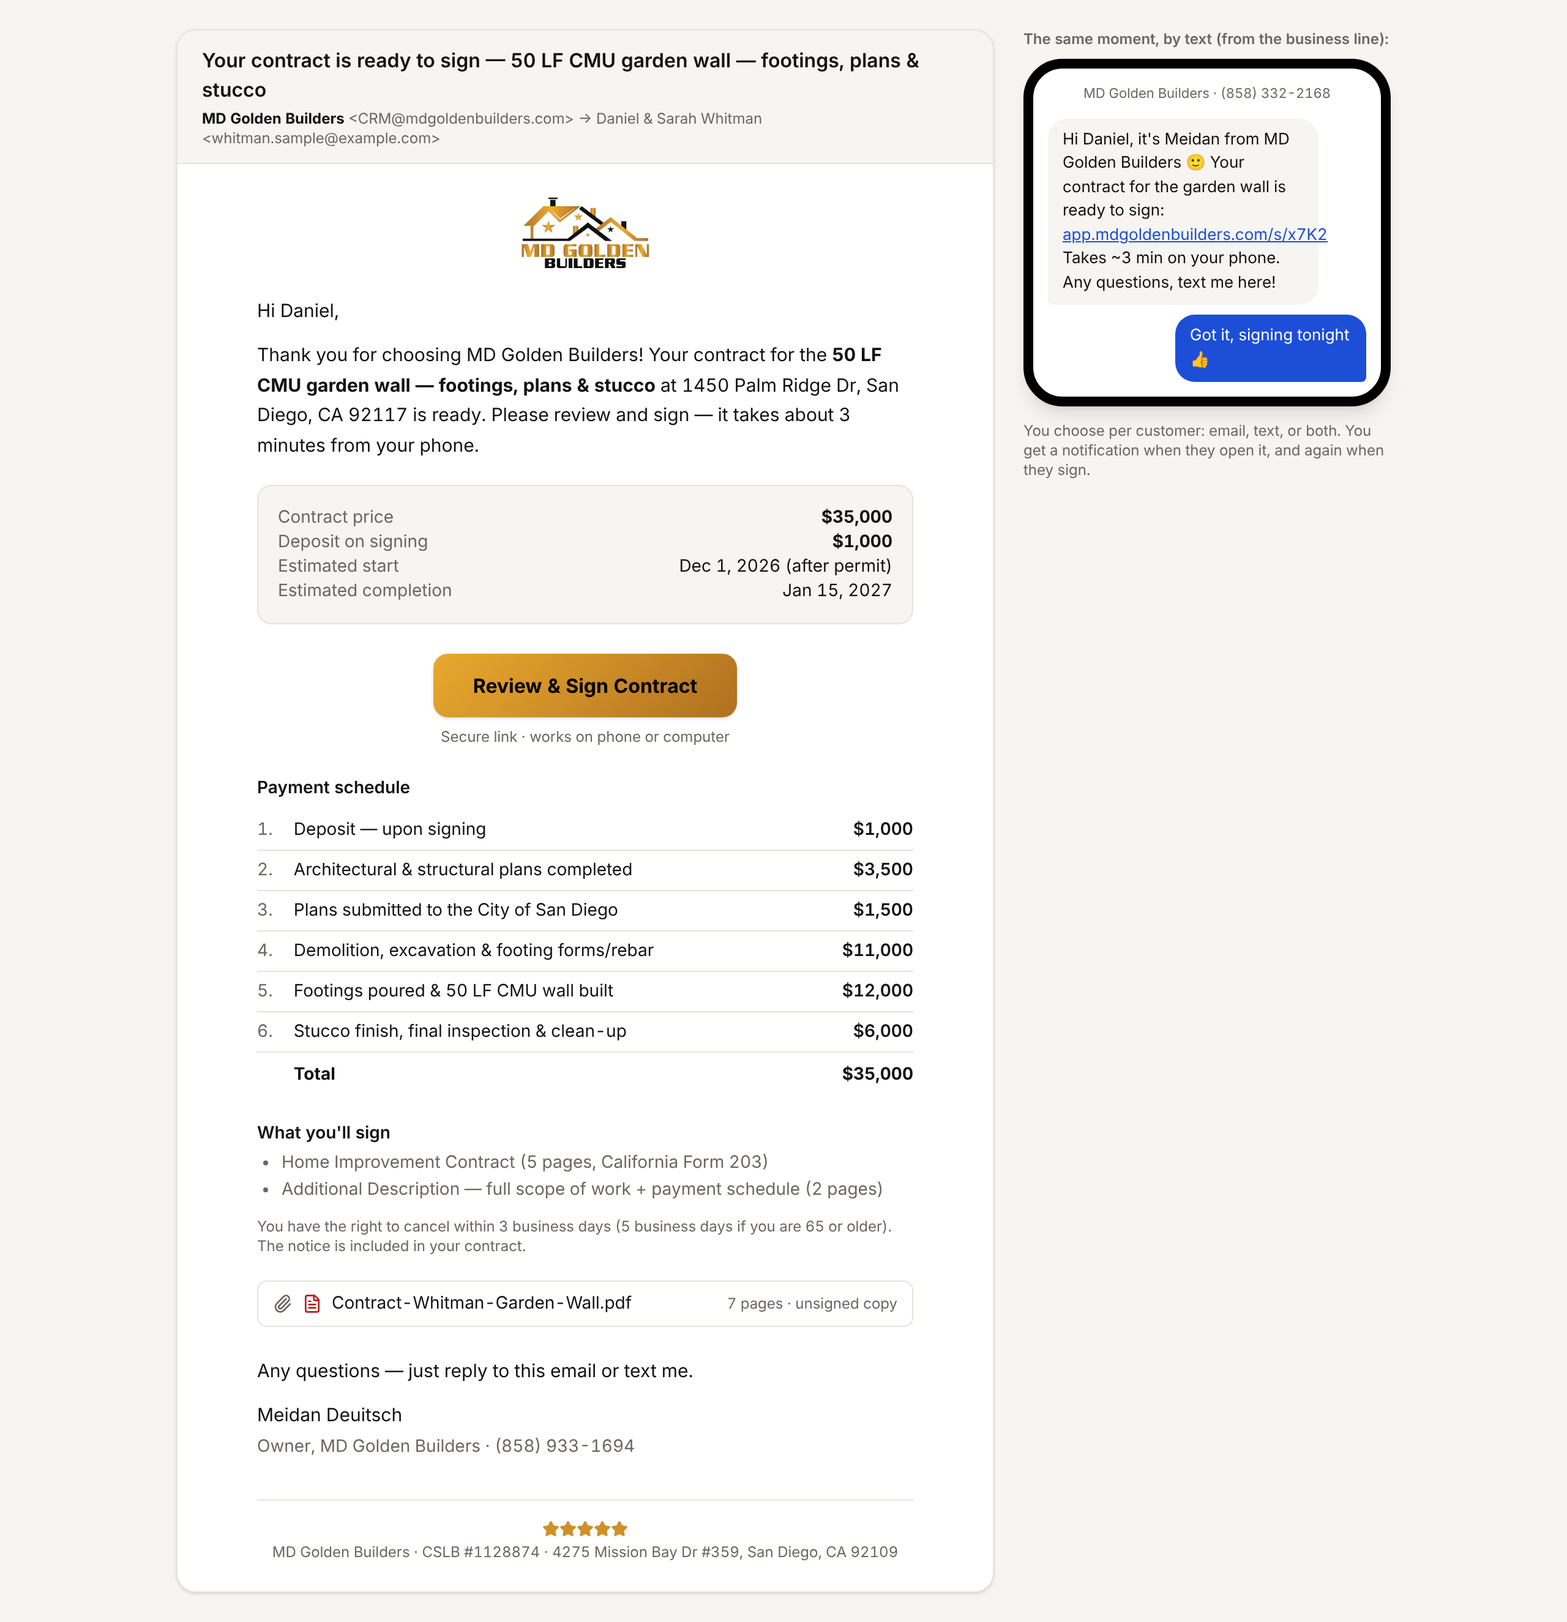
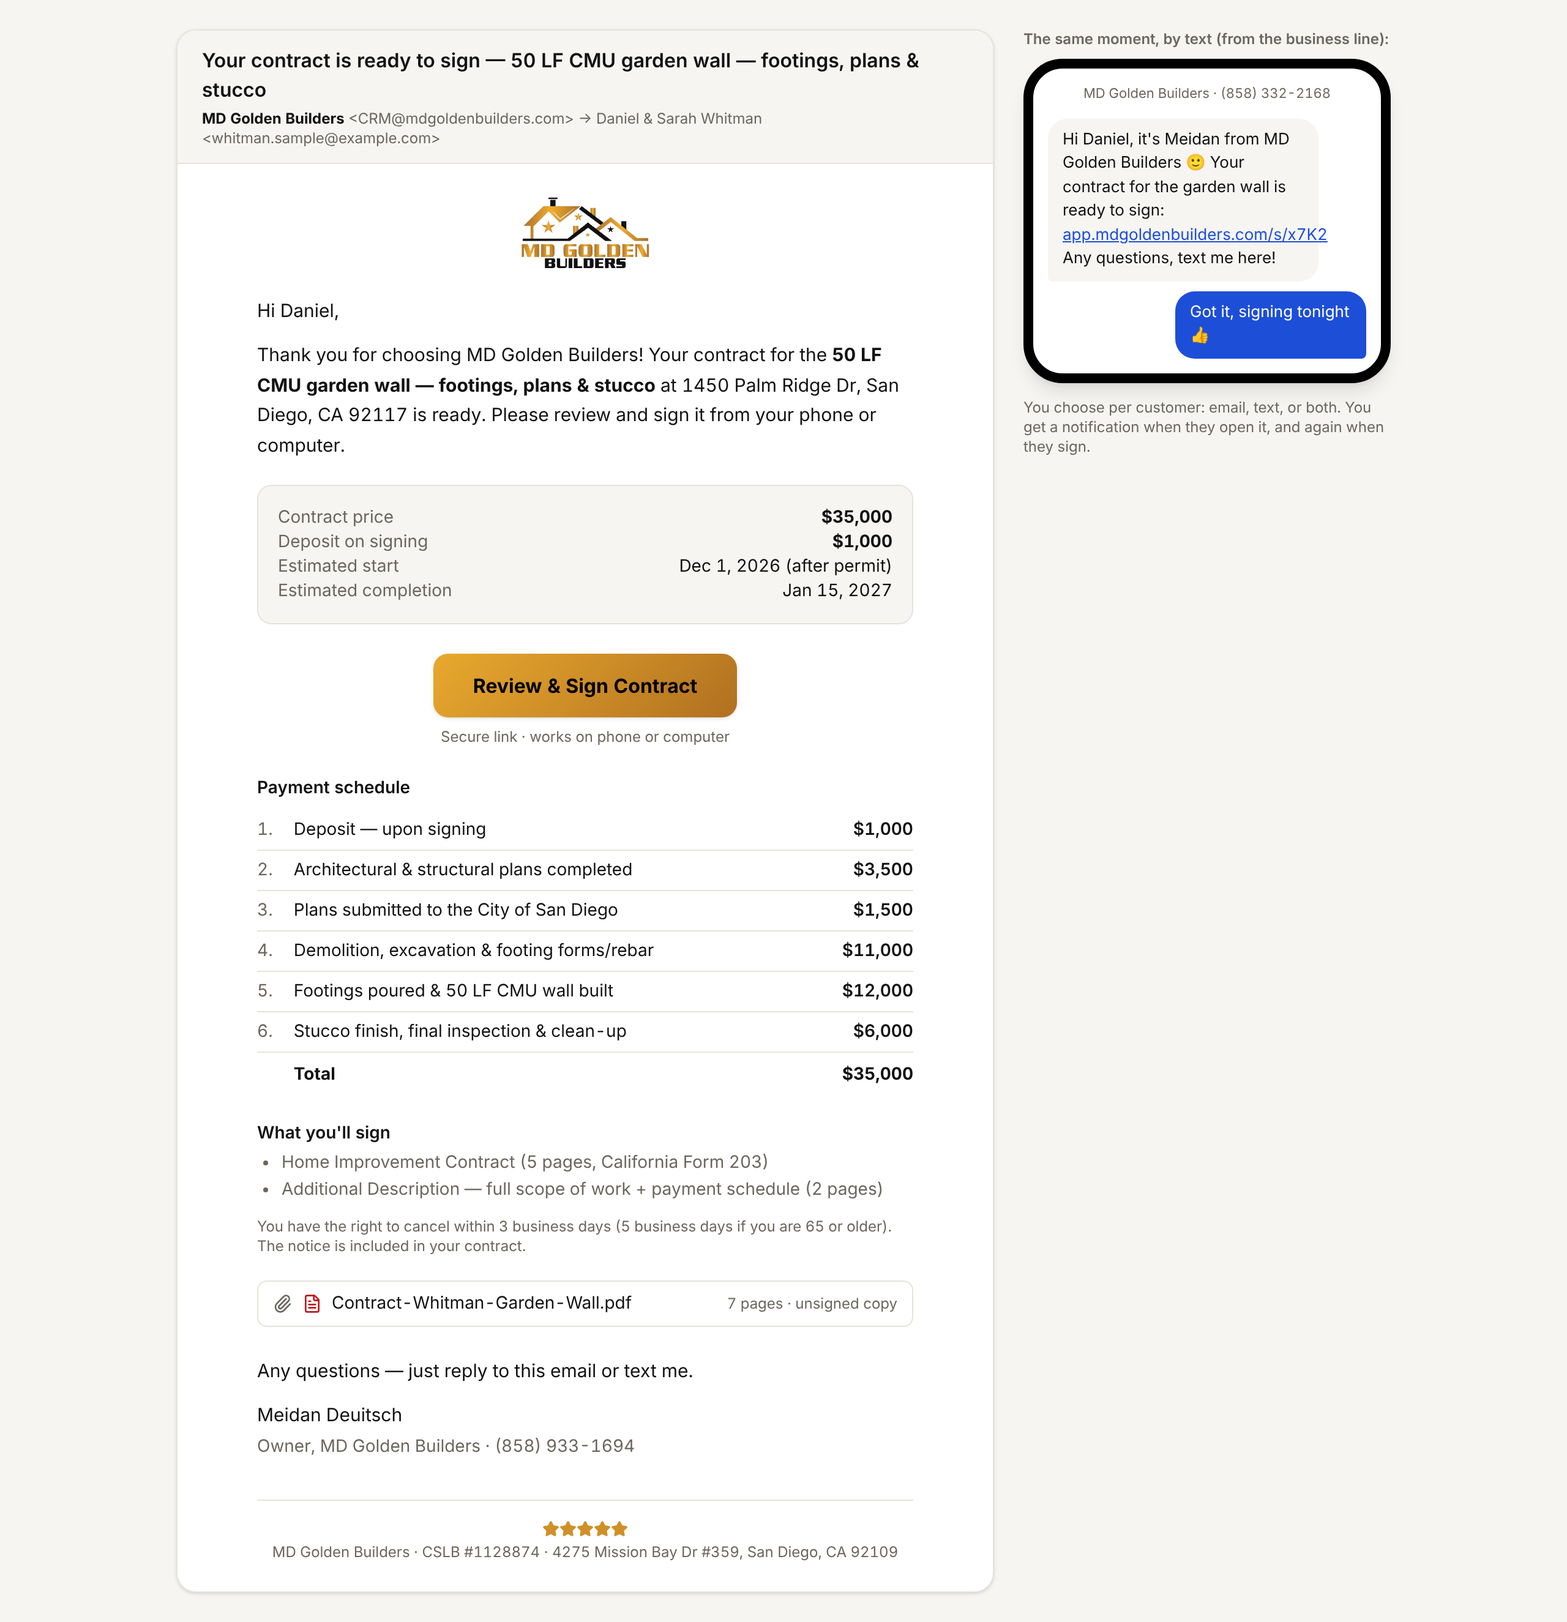
Add document builder (estimate/contract/CO/additional description/sub agreement), estimate-approved deposit flow
Claude-Session: https://claude.ai/code/session_01FWP9vEZ3MdPGUBuhGCAjT9

Changed region(s): [[0.6562, 0.1547, 0.9062, 0.3094], [0.4688, 0.2475, 0.5312, 0.2785], [0.1875, 0.2475, 0.2188, 0.2785]]

diff --git a/src/app/(app)/documents/new/page.tsx b/src/app/(app)/documents/new/page.tsx
@@ -1,0 +1,166 @@
+import clsx from "clsx";
+import { AlertTriangle, CheckCircle2, FilePlus2, FileSignature, FileText, HardHat, Mic, PenLine, Plus, ScrollText, Send, Sparkles } from "lucide-react";
+import Link from "next/link";
+import { Badge, Button, Card, CardHeader, PageHeader } from "@/components/ui";
+import { DEMO_ESTIMATE as E } from "@/lib/demo-docs";
+import { money } from "@/lib/format";
+
+const TYPES = [
+  { key: "estimate", icon: FileText, title: "Estimate", desc: "Scope + price. Customer approves, pays the deposit, then gets the contract.", who: "Customer" },
+  { key: "contract", icon: FileSignature, title: "Contract", desc: "Form 203 + Additional Description, pre-signed by you. From an estimate or from scratch.", who: "Customer" },
+  { key: "change-order", icon: FilePlus2, title: "Change Order", desc: "Extra work on a signed project — own price, payments, subs.", who: "Customer" },
+  { key: "additional", icon: ScrollText, title: "Additional Description", desc: "Scope + payment pages only, to attach to an existing contract.", who: "Customer" },
+  { key: "sub", icon: HardHat, title: "Subcontractor Agreement", desc: "Scope, price and payment stages for a sub. They sign; we pay them.", who: "Subcontractor" },
+];
+
+const input = "w-full rounded-lg border border-border bg-card px-3 py-2 text-sm";
+
+function Source({ children }: { children: React.ReactNode }) {
+  return <span className="ml-1.5 rounded bg-info-soft px-1 text-[10px] font-medium text-info">{children}</span>;
+}
+
+export default async function NewDocumentPage({ searchParams }: { searchParams: Promise<{ type?: string }> }) {
+  const { type: requested } = await searchParams;
+  const type = TYPES.find((x) => x.key === requested)?.key ?? "contract";
+  const t = TYPES.find((x) => x.key === type)!;
+  const isSub = type === "sub";
+  const total = isSub ? 31500 : E.base;
+  const deposit = isSub || type === "change-order" ? 0 : 1000;
+  const rest = total - deposit;
+  const rows = isSub
+    ? [["Start / demo", 0.3], ["Footings complete", 0.3], ["Wall complete", 0.3], ["Final", 0.1]]
+    : E.schedule.filter((m) => m.pct !== null).map((m) => [m.name, m.pct] as [string, number]);
+
+  return (
+    <>
+      <PageHeader title="Create a document" subtitle="Pick what to send. Everything already known about the customer and project is filled in for you." />
+
+      <div className="mb-5 grid gap-2 sm:grid-cols-2 xl:grid-cols-5">
+        {TYPES.map(({ key, icon: Icon, title, desc, who }) => (
+          <Link key={key} href={`?type=${key}`} className={clsx("rounded-xl border p-3 transition", key === type ? "border-gold bg-gold-soft" : "border-border bg-card hover:border-gold")}>
+            <div className="flex items-center justify-between">
+              <Icon className="size-5 text-gold-text" />
+              <Badge tone={who === "Subcontractor" ? "info" : "neutral"}>{who}</Badge>
+            </div>
+            <div className="mt-2 text-sm font-semibold">{title}</div>
+            <div className="mt-0.5 text-xs text-muted">{desc}</div>
+          </Link>
+        ))}
+      </div>
+
+      <div className="grid gap-4 lg:grid-cols-3">
+        <div className="space-y-4 lg:col-span-2">
+          <Card>
+            <CardHeader title={`1 · ${isSub ? "Subcontractor & project" : "Customer & project"}`} subtitle="Pulled from the lead / project record — Laline or the lead robot entered it once" />
+            <div className="grid gap-3 p-4 sm:grid-cols-2 text-sm">
+              <label>
+                <span className="mb-1 block text-xs text-muted">Project</span>
+                <select className={input}><option>#2026-031 · Rachel Donovan · 7025 Neptune Pl (Retaining wall)</option><option>New customer…</option></select>
+              </label>
+              {type === "contract" || type === "additional" ? (
+                <label>
+                  <span className="mb-1 block text-xs text-muted">Start from</span>
+                  <select className={input}><option>Estimate #{E.number} — {money(E.base)} (approved Oct 12)</option><option>Blank — write a new scope</option></select>
+                </label>
+              ) : isSub ? (
+                <label>
+                  <span className="mb-1 block text-xs text-muted">Subcontractor</span>
+                  <select className={input}><option>CM Concrete & Masonry (Carlos) — Lic. C-8 #998812</option></select>
+                </label>
+              ) : (
+                <label>
+                  <span className="mb-1 block text-xs text-muted">Start from</span>
+                  <select className={input}><option>Blank</option><option>Copy a past {t.title.toLowerCase()}…</option></select>
+                </label>
+              )}
+              {(isSub
+                ? [["Name", "Carlos M. — CM Concrete & Masonry", "sub profile"], ["Phone", "(619) 555-0141", "sub profile"], ["License / insurance", "C-8 #998812 · insured to Feb 7, 2027", "sub profile"], ["Job address", "7025 Neptune Pl, La Jolla", "project"]]
+                : [["Owner name(s)", "Rachel Donovan", "lead"], ["Phone · email", "(858) 555-1851 · rachel.donovan@example.com", "lead"], ["Property address", "7025 Neptune Pl, La Jolla, CA 92037", "lead"], ["Owner 65 or older?", "No → 3-day right to cancel", "asked once"]]
+              ).map(([k, v, src]) => (
+                <div key={k}>
+                  <span className="mb-1 block text-xs text-muted">{k}<Source>{src}</Source></span>
+                  <div className={input}>{v}</div>
+                </div>
+              ))}
+            </div>
+          </Card>
+
+          <Card>
+            <CardHeader
+              title="2 · Scope of work"
+              subtitle={type === "contract" ? `Copied from Estimate #${E.number} — edit anything` : "Write it, or let the assistant draft it from your notes"}
+              action={<span className="inline-flex items-center gap-1 text-xs font-medium text-gold-text"><Sparkles className="size-3.5" /> Draft from site-visit notes</span>}
+            />
+            <div className="space-y-3 p-4">
+              {E.sections.slice(0, isSub ? 3 : 4).map((s, i) => (
+                <div key={s.title} className="rounded-lg border border-border p-3">
+                  <div className="flex items-center justify-between text-sm font-semibold"><span>{i + 1}. {s.title}</span><PenLine className="size-3.5 text-muted" /></div>
+                  <ul className="mt-1 space-y-0.5 text-sm text-muted">{s.items.map((it) => <li key={it}>• {it}</li>)}</ul>
+                </div>
+              ))}
+              <div className="flex gap-2">
+                <Button><Plus className="size-4" /> Section</Button>
+                <Button><Mic className="size-4" /> Dictate</Button>
+              </div>
+            </div>
+          </Card>
+
+          <Card>
+            <CardHeader title={`3 · Price & ${isSub ? "what we pay the sub" : "payment schedule"}`} subtitle={isSub ? "No deposit and no payment links — we pay the sub" : "Each project is different — build the schedule for this job"} />
+            <div className="p-4">
+              <div className="mb-3 flex items-center justify-between rounded-lg bg-surface px-3 py-2">
+                <span className="text-sm font-medium">{isSub ? "Sub contract amount" : "Contract price"}</span>
+                <span className="text-xl font-bold">{money(total)}</span>
+              </div>
+              <table className="w-full text-sm">
+                <tbody className="divide-y divide-border">
+                  {deposit > 0 && (
+                    <tr><td className="py-2">Down payment — upon signing</td><td className="py-2 text-right font-semibold">{money(deposit)}</td><td className="w-28 py-2 text-right text-xs text-ok">✓ within CA limit</td></tr>
+                  )}
+                  {rows.map(([name, pct]) => (
+                    <tr key={name as string}><td className="py-2">{name}</td><td className="py-2 text-right font-semibold">{money(Math.round(rest * (pct as number)))}</td><td className="py-2 text-right text-xs text-muted">{Math.round((pct as number) * 100)}%</td></tr>
+                  ))}
+                  <tr><td className="py-2 font-bold">Total</td><td className="py-2 text-right font-bold">{money(total)}</td><td className="py-2 text-right text-xs text-ok"><CheckCircle2 className="mr-1 inline size-3.5" />adds up</td></tr>
+                </tbody>
+              </table>
+              {!isSub && (
+                <p className="mt-3 flex gap-1.5 text-xs text-muted"><AlertTriangle className="size-3.5 shrink-0 text-warn" /> Checks run automatically: deposit ≤ $1,000 / 10%, schedule adds up to the price, every payment tied to completed work.</p>
+              )}
+              <label className="mt-3 flex items-center gap-2 text-sm"><input type="checkbox" /> Financed project (Foundation Finance pays the balance at completion)</label>
+            </div>
+          </Card>
+        </div>
+
+        <div className="space-y-4">
+          <Card className="p-4">
+            <div className="text-sm font-semibold">4 · Send</div>
+            <div className="mt-3 space-y-2 text-sm">
+              <label className="flex items-center gap-2"><input type="checkbox" defaultChecked /> Email (from CRM@mdgoldenbuilders.com)</label>
+              <label className="flex items-center gap-2"><input type="checkbox" defaultChecked /> Text message (business line)</label>
+              {type === "contract" && <label className="flex items-center gap-2"><input type="checkbox" defaultChecked /> Sign it as MD Golden Builders before sending</label>}
+            </div>
+            <div className="mt-4 rounded-lg bg-surface p-3 text-xs text-muted">
+              Button in the email: <b className="text-text">{type === "estimate" || type === "change-order" ? "View " + t.title : "Review & Sign"}</b>
+              <br />After signing: {isSub ? "copy to the sub + saved to the project" : type === "estimate" ? "choose how to pay the deposit → contract follows" : type === "contract" ? "signed PDF to everyone + welcome email" : "signed copy + payment schedule updated"}
+            </div>
+            <div className="mt-4 grid gap-2">
+              <Button href={type === "estimate" ? "/p/estimate/demo" : type === "change-order" ? "/p/change-order/demo" : "/p/sign/demo"}>Preview as customer</Button>
+              <Button variant="primary" className="justify-center"><Send className="size-4" /> Send {t.title}</Button>
+            </div>
+          </Card>
+
+          <Card className="p-4 text-xs text-muted">
+            <div className="mb-1 text-sm font-semibold text-text">How the details get here</div>
+            <ol className="list-decimal space-y-1 pl-4">
+              <li><b>Lead</b> — robot / Laline captures name, phone, email, address, service.</li>
+              <li><b>Site visit</b> — your notes, photos, voice memo.</li>
+              <li><b>Estimate</b> — scope + price (typed, dictated or AI-drafted from your notes).</li>
+              <li><b>Contract</b> — one click from the estimate: same scope + schedule, Form 203 filled.</li>
+              <li><b>Change orders &amp; sub agreements</b> — start from the project, nothing retyped.</li>
+            </ol>
+          </Card>
+        </div>
+      </div>
+    </>
+  );
+}

diff --git a/src/app/p/pay/[id]/page.tsx b/src/app/p/pay/[id]/page.tsx
@@ -13,8 +13,10 @@ const OPTIONS = [
 ];
 
 /** Shown right after the customer finishes signing: pick a deposit payment method, done. */
-export default async function PayPage({ searchParams }: { searchParams: Promise<{ m?: string }> }) {
-  const { m } = await searchParams;
+export default async function PayPage({ searchParams }: { searchParams: Promise<{ m?: string; from?: string }> }) {
+  const { m, from } = await searchParams;
+  const fromEstimate = from === "estimate";
+  const q = fromEstimate ? "&from=estimate" : "";
   const chosen = OPTIONS.find((o) => o.key === m);
 
   return (
@@ -24,8 +26,12 @@ export default async function PayPage({ searchParams }: { searchParams: Promise<
 
       <div className="rounded-2xl border border-border bg-card p-5 text-center">
         <CheckCircle2 className="mx-auto size-12 text-ok" />
-        <h1 className="mt-2 text-xl font-bold">Contract signed — welcome aboard, {K.customer.first}!</h1>
-        <p className="mt-1 text-sm text-muted">A fully signed copy is on its way to your email.</p>
+        <h1 className="mt-2 text-xl font-bold">{fromEstimate ? "Estimate approved" : "Contract signed"} — welcome aboard, {K.customer.first}!</h1>
+        <p className="mt-1 text-sm text-muted">
+          {fromEstimate
+            ? "Next: secure your spot with the deposit below. Your official contract will be sent to you shortly for digital signature."
+            : "A fully signed copy is on its way to your email."}
+        </p>
       </div>
 
       {!chosen ? (
@@ -40,7 +46,7 @@ export default async function PayPage({ searchParams }: { searchParams: Promise<
           <div className="mt-4 text-sm font-semibold">How would you like to pay?</div>
           <div className="mt-2 space-y-2">
             {OPTIONS.map(({ key, icon: Icon, title, detail, note, best }) => (
-              <a key={key} href={`?m=${key}`} className="flex items-center gap-3 rounded-xl border border-border p-3 hover:border-gold hover:bg-gold-soft">
+              <a key={key} href={`?m=${key}${q}`} className="flex items-center gap-3 rounded-xl border border-border p-3 hover:border-gold hover:bg-gold-soft">
                 <Icon className="size-5 text-gold-text" />
                 <span className="min-w-0 flex-1">
                   <span className="block text-sm font-semibold">{title} {best && <span className="ml-1 rounded-full bg-ok-soft px-1.5 text-[10px] text-ok">Recommended</span>}</span>

diff --git a/src/app/p/email/[id]/page.tsx b/src/app/p/email/[id]/page.tsx
@@ -21,7 +21,7 @@ export default async function EmailPreview({ searchParams }: { searchParams: Pro
           {/* eslint-disable-next-line @next/next/no-img-element */}
           <img src="/logo-light.png" alt="MD Golden Builders" className="mx-auto mb-5 h-16 w-auto" />
           <p>Hi {K.customer.first},</p>
-          <p className="mt-3">Thank you for choosing MD Golden Builders! Your contract for the <b>{K.title}</b> at {K.customer.address} is ready. Please review and sign — it takes about 3 minutes from your phone.</p>
+          <p className="mt-3">Thank you for choosing MD Golden Builders! Your contract for the <b>{K.title}</b> at {K.customer.address} is ready. Please review and sign it from your phone or computer.</p>
 
           <div className="mt-5 rounded-xl border border-border bg-surface p-4 text-sm">
             <div className="flex justify-between"><span className="text-muted">Contract price</span><b>{money(K.price)}</b></div>
@@ -79,7 +79,7 @@ export default async function EmailPreview({ searchParams }: { searchParams: Pro
           <div className="mb-3 text-center text-[11px] text-muted">MD Golden Builders · (858) 332-2168</div>
           <div className="max-w-[85%] rounded-2xl rounded-bl-sm bg-surface px-3 py-2 text-[13px]">
             Hi {K.customer.first}, it&apos;s Meidan from MD Golden Builders 🙂 Your contract for the garden wall is ready to sign: <span className="text-info underline">app.mdgoldenbuilders.com/s/x7K2</span>
-            <br />Takes ~3 min on your phone. Any questions, text me here!
+            <br />Any questions, text me here!
           </div>
           <div className="mt-2 ml-auto max-w-[60%] rounded-2xl rounded-br-sm bg-info px-3 py-2 text-[13px] text-white">Got it, signing tonight 👍</div>
         </div>

diff --git a/src/components/nav.tsx b/src/components/nav.tsx
@@ -5,6 +5,7 @@ import {
   BarChart3,
   CalendarDays,
   CreditCard,
+  FileText,
   FolderKanban,
   HardHat,
   LayoutDashboard,
@@ -22,6 +23,7 @@ export const NAV = [
   { href: "/follow-ups", label: "Follow-ups", icon: ListTodo },
   { href: "/calendar", label: "Calendar", icon: CalendarDays },
   { href: "/projects", label: "Projects", icon: FolderKanban },
+  { href: "/documents/new", label: "Documents", icon: FileText },
   { href: "/payments", label: "Payments", icon: CreditCard, money: true },
   { href: "/subcontractors", label: "Subcontractors", icon: HardHat },
   { href: "/reports", label: "Reports", icon: BarChart3, money: true },

diff --git a/src/app/p/estimate/[id]/page.tsx b/src/app/p/estimate/[id]/page.tsx
@@ -19,7 +19,7 @@ export default function EstimatePage() {
       schedule={E.schedule}
       withDeposit
       warranty={E.warranty}
-      signHref="/p/sign/demo"
+      signHref="/p/pay/demo?from=estimate"
     />
   );
 }

diff --git a/docs/MASTER_PROMPT.md b/docs/MASTER_PROMPT.md
@@ -486,7 +486,26 @@ export) → match job name → project; ask the owner which sub when unclear.
   Google ads and marks spam leads for LSA refunds. Option: a limited "Marketing" login
   (leads + spam/refund fields only, no money/projects).
 
-## 21. Working rules for me
+## 21. Document flow (round 9, 2026-10-11)
+
+- Marketing manager handles LSA spam/refunds himself inside Google LSA → **no spam tracking
+  in our app**.
+- **Estimate ≠ contract.** Estimate (full scope) → customer **Approve & sign** → choose how to
+  pay the deposit → message "your official contract will be sent shortly for digital
+  signature" → contract (Form 203 + Additional Description, pre-signed by us) → customer signs.
+- Sometimes a contract is sent directly (no estimate); sometimes generated from a specific
+  estimate.
+- **One "Create a document" builder** (`/documents/new`) with a type picker:
+  Estimate · Contract · Change Order · Additional Description · Subcontractor Agreement.
+  Sub agreement = same structure (scope + payment stages, sub signs) but **no deposit and no
+  customer payment links — we pay the sub**.
+- **Where the details come from:** lead record (robot/Laline: name, phone, email, address,
+  service) → site-visit notes/photos/voice memo → estimate scope + price (typed, dictated or
+  AI-drafted) → contract/CO/sub agreement start from the project; nothing is retyped.
+  Auto-checks: deposit limit, schedule sums to price, 65+ → 5-day cancel.
+- Customer messages: removed the "takes ~3 minutes" line.
+
+## 22. Working rules for me
 
 - Work on branch `claude/project-management-system-g36bde`; small, clear commits.
 - Never hard-code secrets; use env vars.
